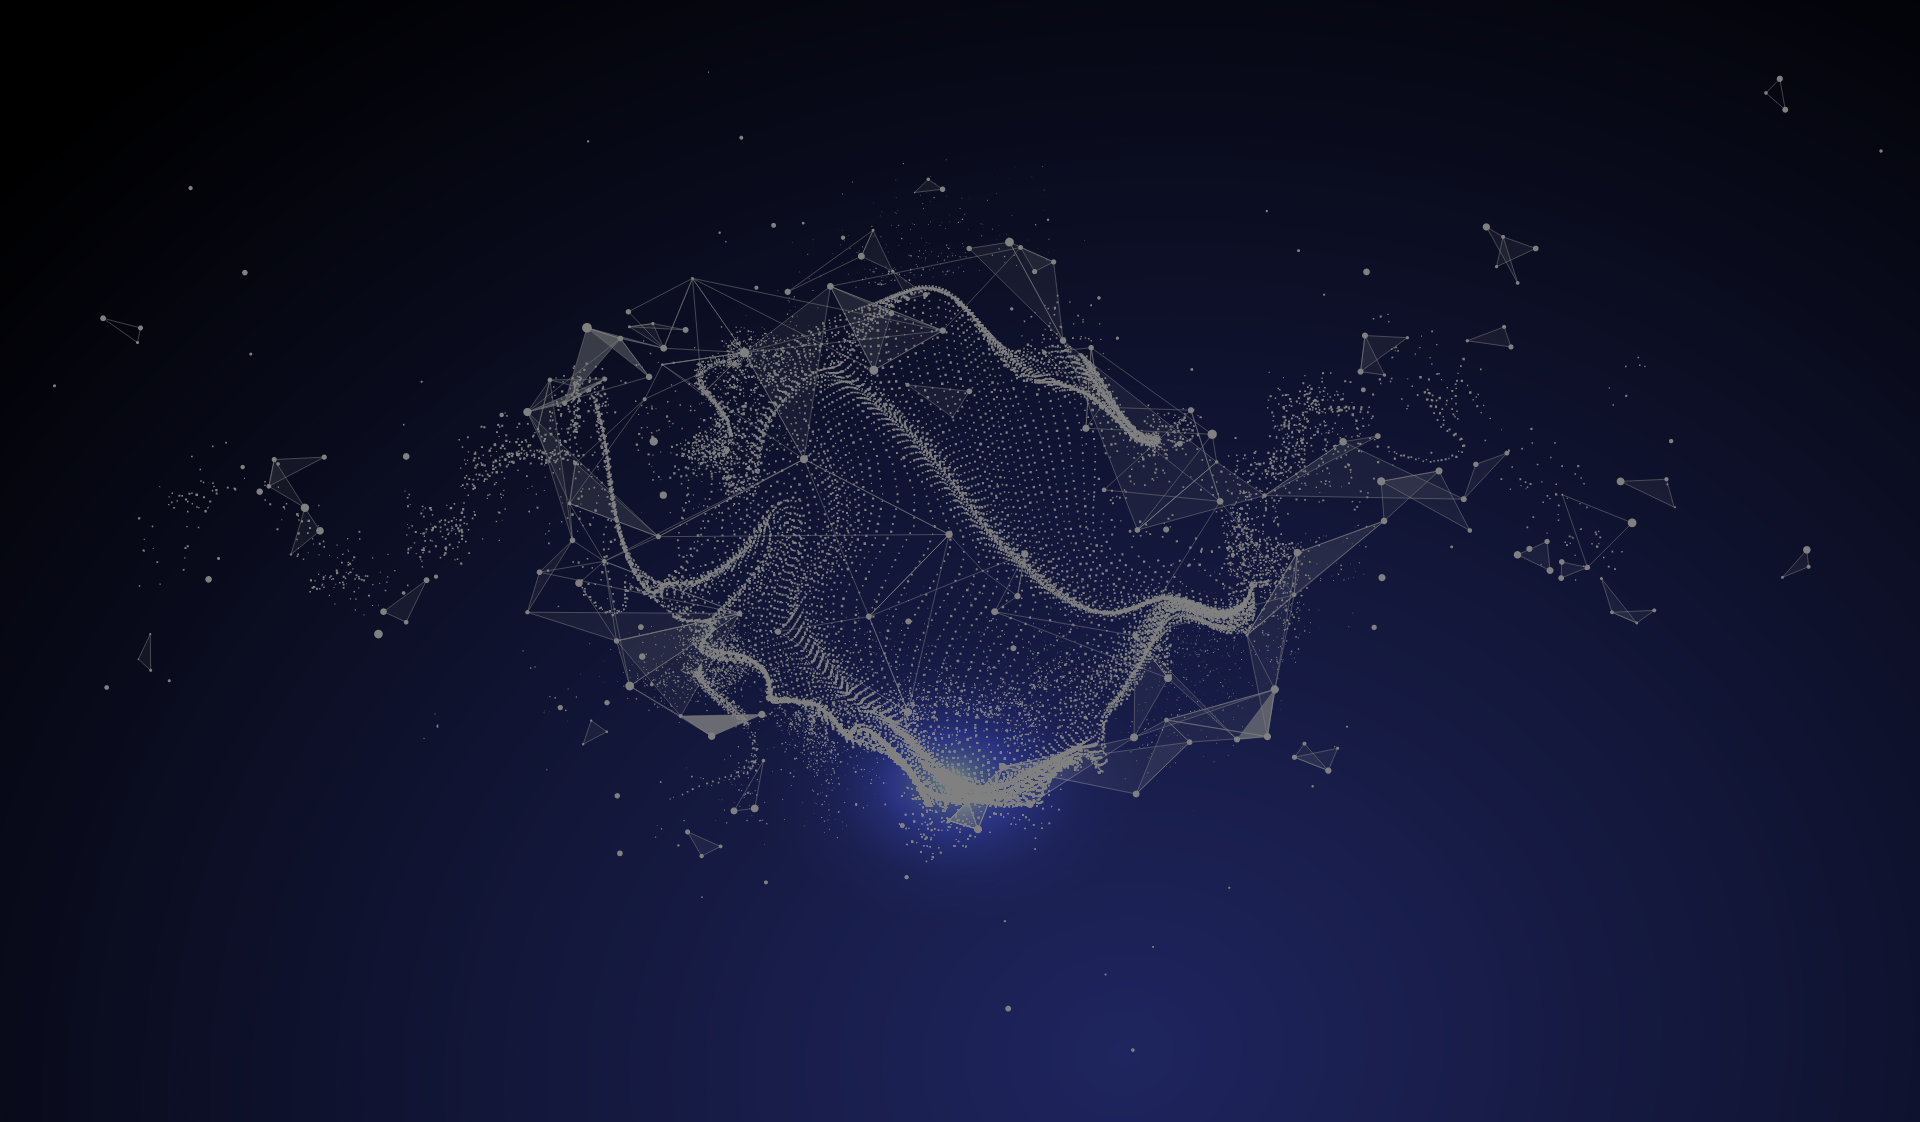
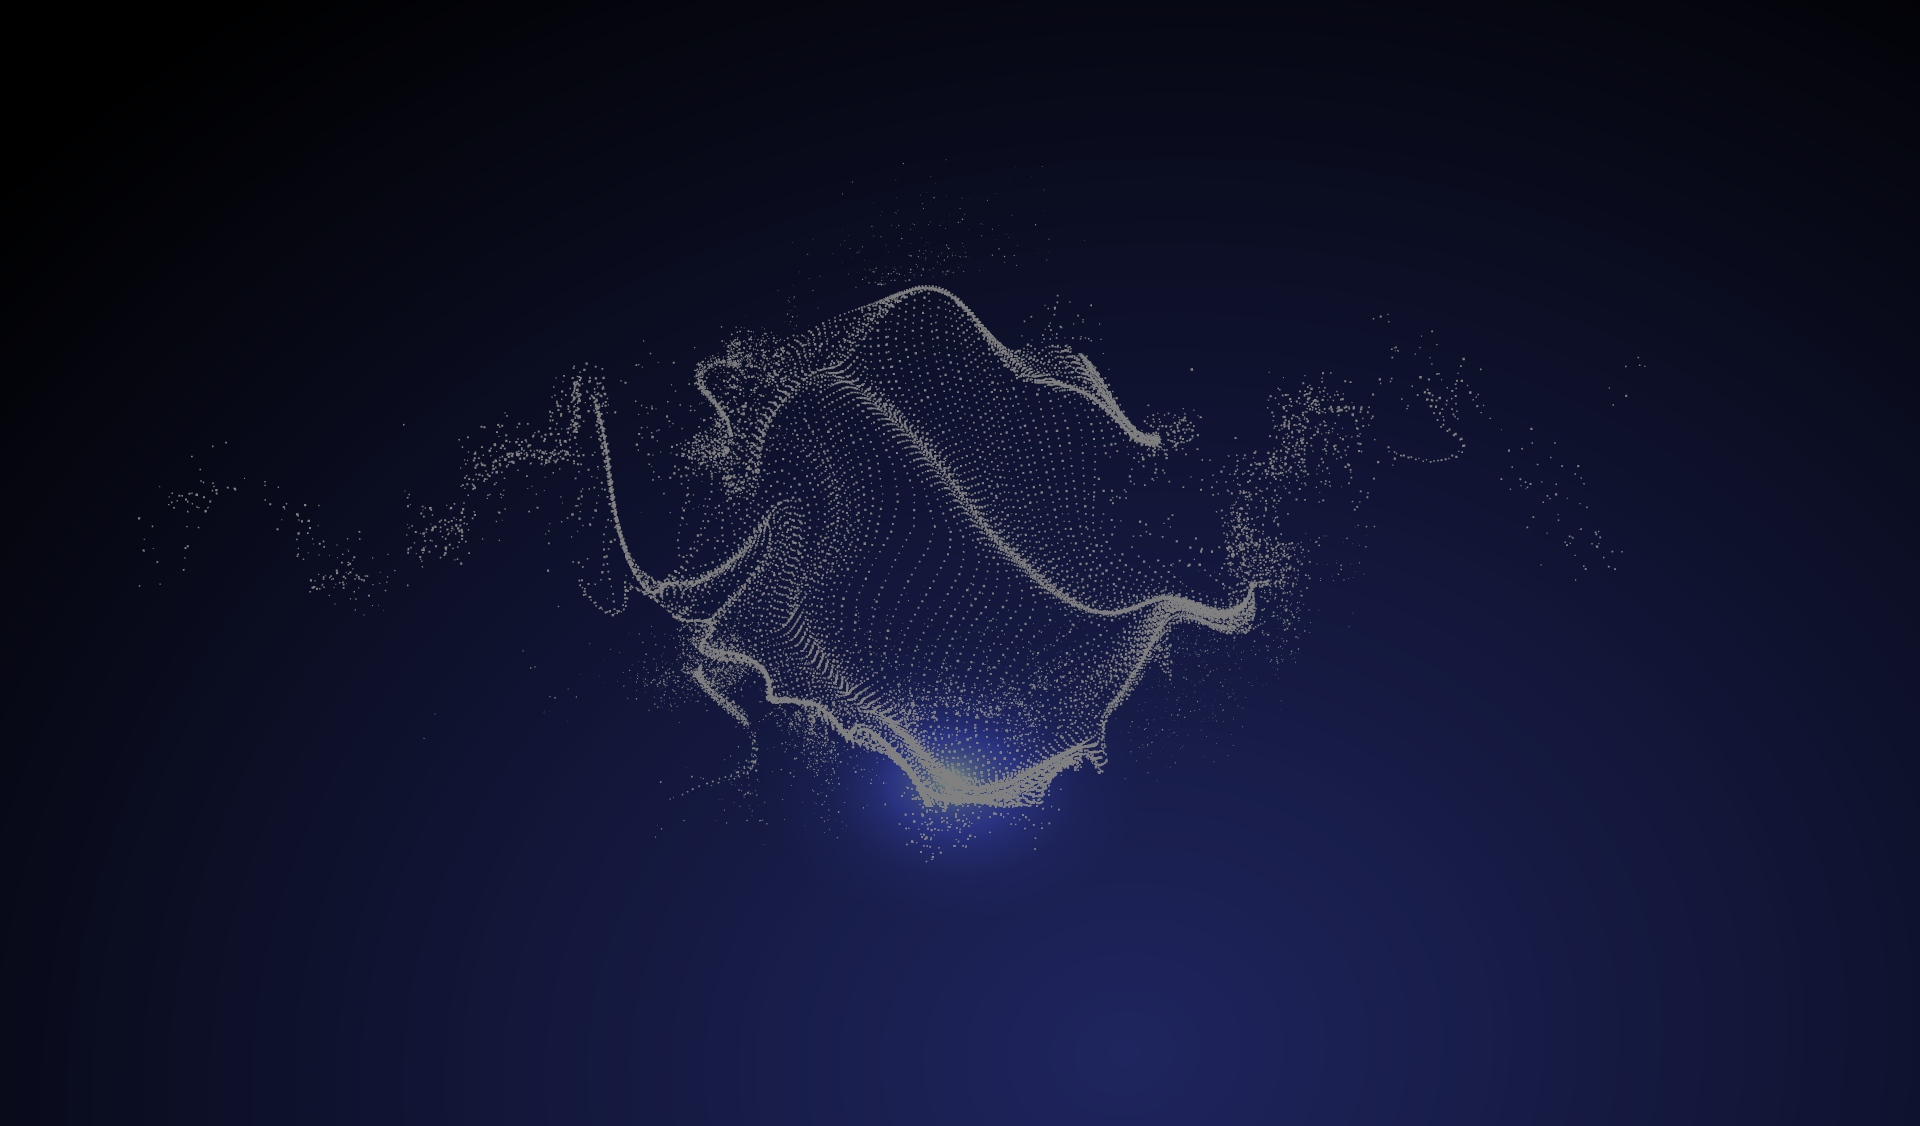
update: hero header

diff --git a/src/components/Particles/index.tsx b/src/components/Particles/index.tsx
@@ -1,0 +1,165 @@
+import { VFC } from 'react'
+import Particles from 'react-tsparticles'
+
+export const TopParticles: VFC = () => (
+  <Particles
+    options={{
+      interactivity: {
+        detect_on: 'window',
+        events: {
+          onhover: {
+            enable: true,
+            mode: 'trail',
+            parallax: {
+              enable: false,
+              force: 2,
+              smooth: 10,
+            },
+          },
+          onclick: {
+            enable: true,
+            mode: 'push',
+          },
+          resize: true,
+        },
+        modes: {
+          trail: {
+            delay: 0.005,
+            pauseOnStop: true,
+            quantity: 5,
+            particles: {
+              color: {
+                value: '#FFFFFF',
+                animation: {
+                  enable: true,
+                  speed: 400,
+                  sync: true,
+                },
+              },
+              collisions: {
+                enable: false,
+              },
+              links: {
+                enable: false,
+              },
+              move: {
+                outModes: {
+                  default: 'destroy',
+                },
+                speed: 2,
+              },
+              size: {
+                value: 5,
+                animation: {
+                  enable: true,
+                  speed: 5,
+                  minimumValue: 1,
+                  sync: true,
+                  startValue: 'min',
+                  destroy: 'max',
+                },
+              },
+            },
+          },
+          grab: {
+            distance: 400,
+            line_linked: {
+              opacity: 1,
+            },
+          },
+          bubble: {
+            distance: 400,
+            size: 40,
+            duration: 2,
+            opacity: 0.8,
+          },
+          repulse: {
+            distance: 200,
+          },
+          push: {
+            particles_nb: 4,
+          },
+          remove: {
+            particles_nb: 2,
+          },
+        },
+      },
+      particles: {
+        number: {
+          value: 50,
+          density: {
+            enable: true,
+            value_area: 800,
+          },
+        },
+        color: {
+          value: '#ffffff',
+          animation: {
+            enable: true,
+            speed: 10,
+            sync: true,
+          },
+        },
+        shape: {
+          type: 'circle',
+          stroke: {
+            width: 0,
+            color: '#000000',
+          },
+          polygon: {
+            nb_sides: 5,
+          },
+        },
+        opacity: {
+          value: 0.4,
+          random: true,
+          anim: {
+            enable: true,
+            speed: 3,
+            opacity_min: 0.1,
+            sync: false,
+          },
+        },
+        size: {
+          value: 5,
+          random: true,
+          anim: {
+            enable: true,
+            speed: 10,
+            size_min: 0.1,
+            sync: false,
+          },
+        },
+        line_linked: {
+          enable: true,
+          distance: 120,
+          color: '#ffffff',
+          opacity: 0.4,
+          width: 1,
+          triangles: {
+            enable: true,
+            color: '#ffffff',
+            opacity: 0.03,
+          },
+        },
+        move: {
+          enable: true,
+          speed: 3,
+          direction: 'none',
+          random: true,
+          straight: false,
+          out_mode: 'bounce',
+          attract: {
+            enable: false,
+            rotateX: 600,
+            rotateY: 1200,
+          },
+        },
+      },
+    }}
+    style={{
+      position: 'absolute',
+      inset: 0,
+    }}
+  />
+)

diff --git a/src/compositions/Top/HeroHeader.tsx b/src/compositions/Top/HeroHeader.tsx
@@ -1,6 +1,7 @@
 import React, { VFC } from 'react'
 import { Title } from 'src/assets/svgs'
 import { Image } from 'src/components/Image'
+import { TopParticles } from 'src/components/Particles'
 import { black, lightblue, purple, white } from 'src/styles/colors'
 import { fontWeightLight, fontWeightMedium } from 'src/styles/font'
 import { absoluteFill, breakpoint } from 'src/styles/mixins'
@@ -20,6 +21,7 @@ export const HeroHeader: VFC = () => (
           priority={true}
           loading="eager"
         />
+        <TopParticles />
         <Filter />
       </ImageDiv>
       <Contents>
@@ -68,9 +70,9 @@ const ImageDiv = styled.div`
   top: 0;
   left: 0;
   width: 100%;
-  height: 0;
-  padding-top: 1129px;
+  height: 100%;
   @media ${breakpoint.m} {
+    height: 0;
     padding-top: 100%;
   }
 `
